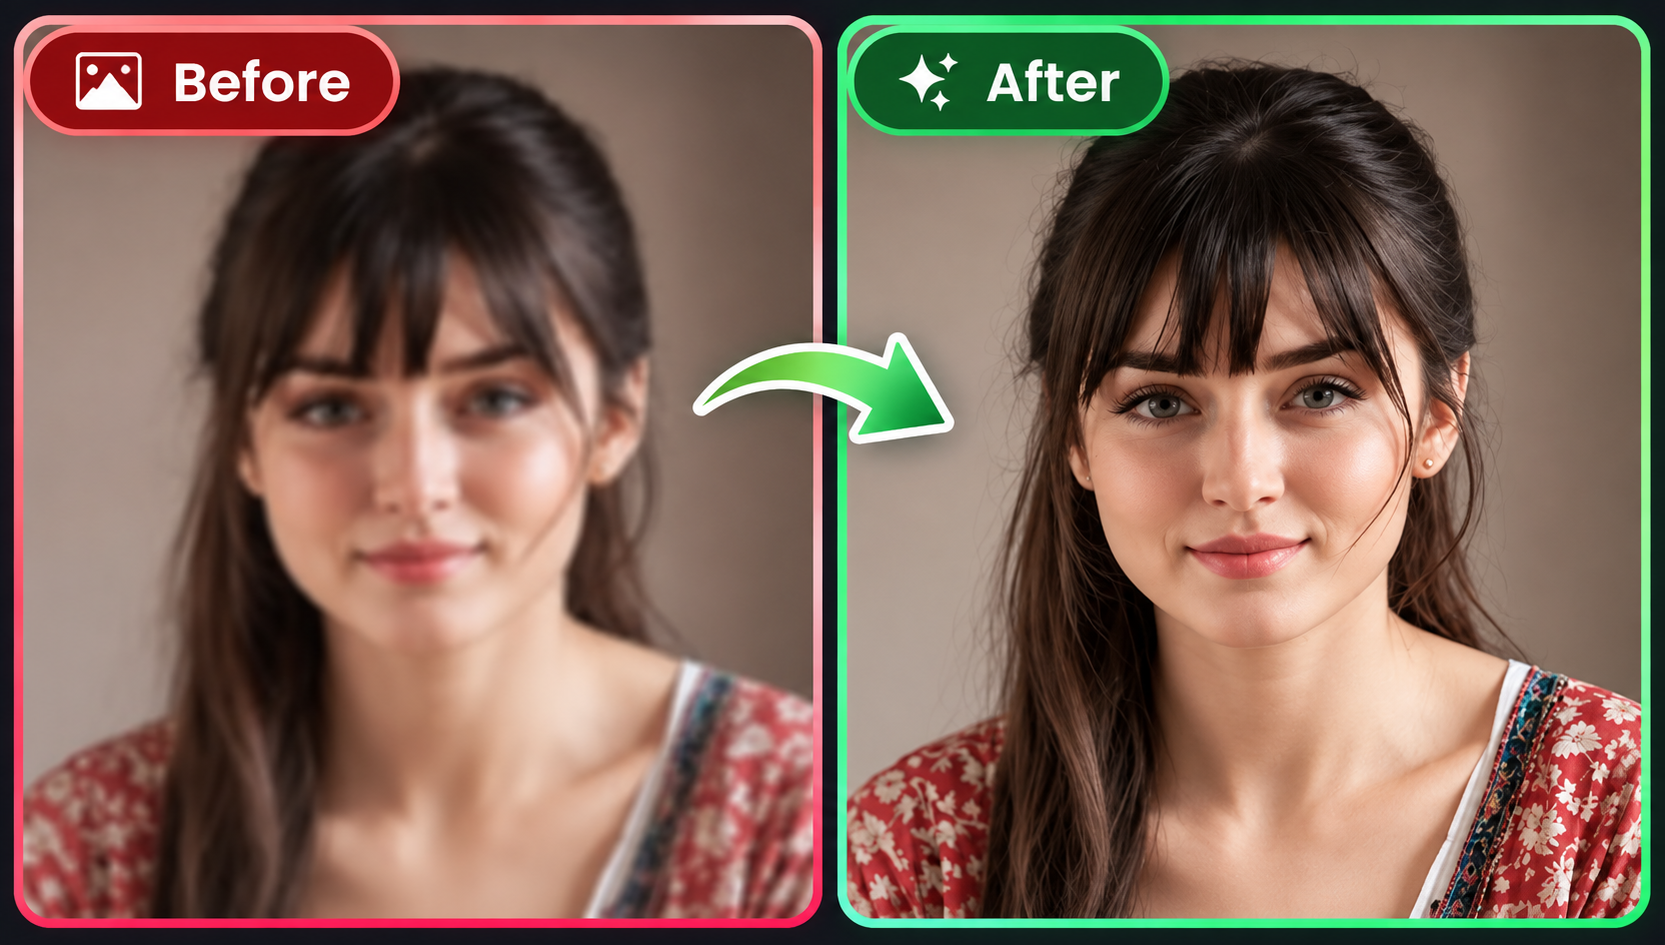
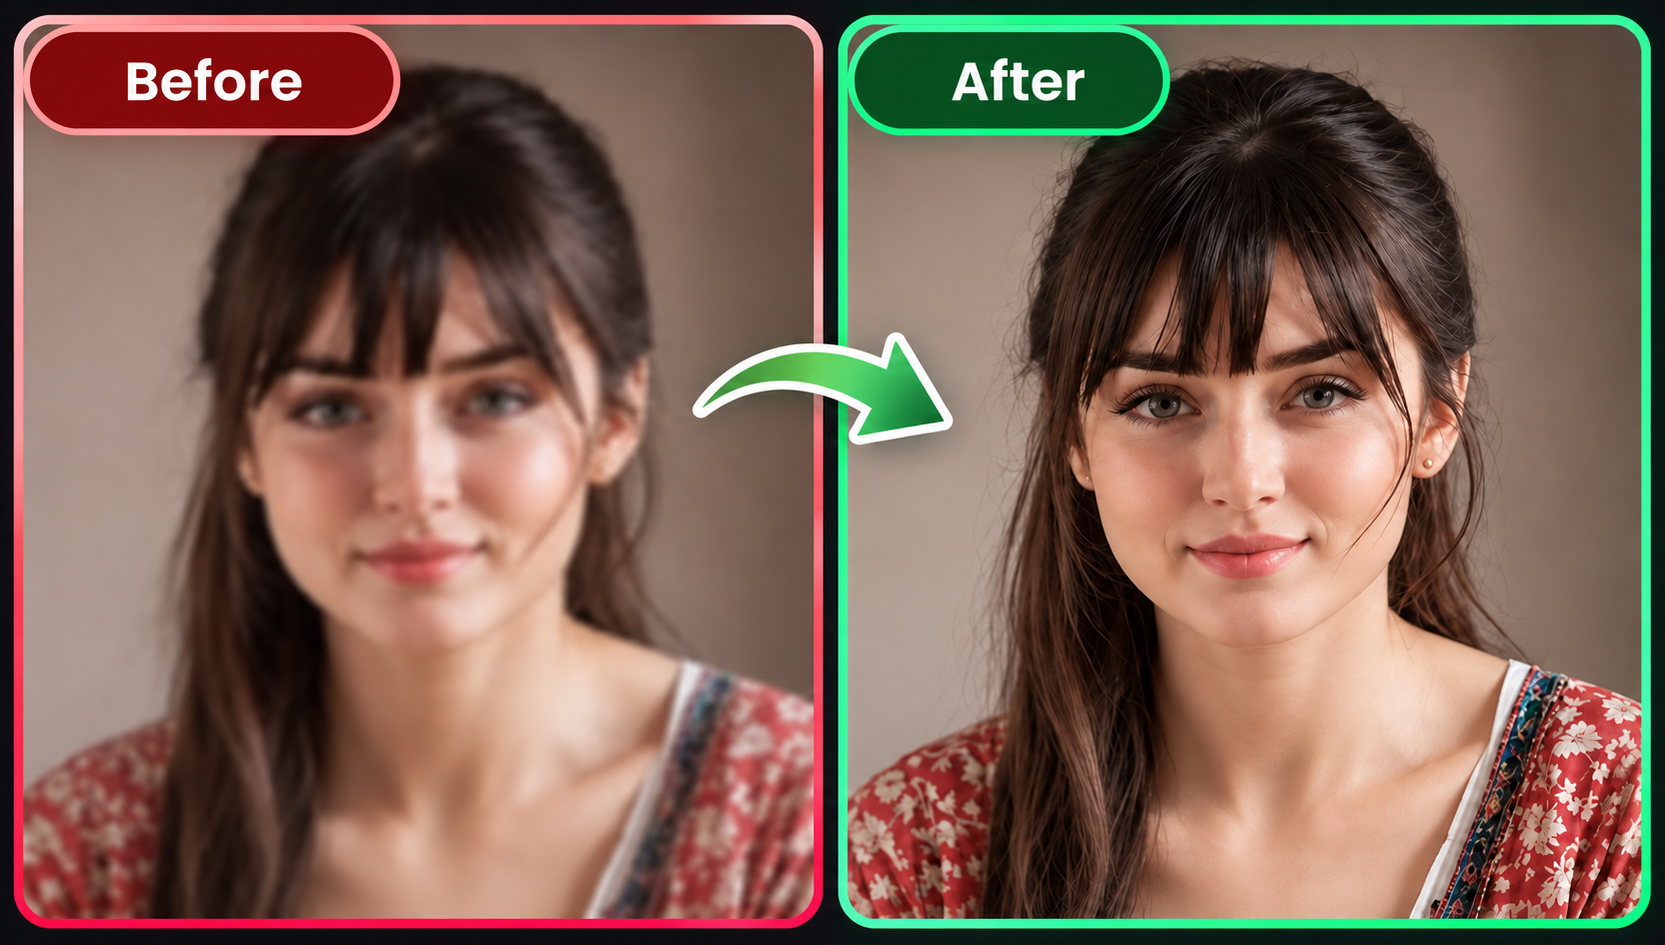
Update frontend design and images

diff --git a/index.html b/index.html
@@ -5,7 +5,7 @@
     <meta charset="UTF-8">
     <meta name="viewport" content="width=device-width, initial-scale=1.0">
 
-    <title>Real-ESRGAN Super Resolution</title>
+    <title> Super Resolution</title>
 
     <link rel="stylesheet" href="static/style.css">
 </head>
@@ -36,8 +36,8 @@
 
         <p class="intro-description">
             Transform low-resolution images into sharper, clearer and
-            more detailed visuals using AI-powered
-            <strong>Real-ESRGAN ×4</strong> super resolution.
+            more detailed visuals 
+           
         </p>
 
 
@@ -64,9 +64,7 @@
 
             <div class="showcase-card card-two featured-card">
 
-                <div class="featured-badge">
-                    REAL-ESRGAN ×4
-                </div>
+              
 
                 <div class="image-wrapper">
                     <img
@@ -170,7 +168,7 @@
 
 
         <div class="intro-hint">
-            Powered by Real-ESRGAN • PyTorch • OpenCV
+            Developed by  subodh kumar
         </div>
 
     </div>
@@ -201,9 +199,7 @@
                     Super Resolution
                 </strong>
 
-                <span>
-                    Real-ESRGAN ×4
-                </span>
+              
             </div>
 
         </div>
@@ -237,7 +233,7 @@
             </h1>
 
             <p>
-                Upload an image and Real-ESRGAN will generate a
+                Upload an image and it will generate a
                 4× super-resolved result using AI-powered
                 image enhancement.
             </p>
@@ -392,9 +388,7 @@
 
                 <div class="image-panel">
 
-                    <div class="panel-title">
-                        Real-ESRGAN ×4
-                    </div>
+                   
 
                     <div class="preview-container">
 
@@ -463,7 +457,7 @@
     <!-- FOOTER -->
 
     <footer>
-        Real-ESRGAN • PyTorch • OpenCV • Flask
+        Developed by  subodh kumar
     </footer>
 
 </section>
